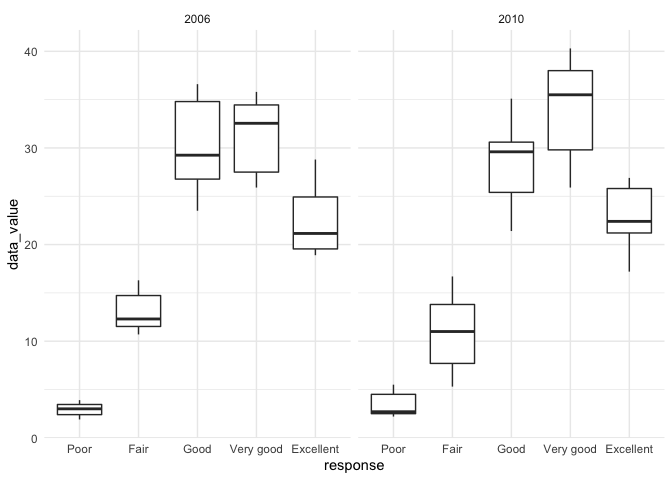
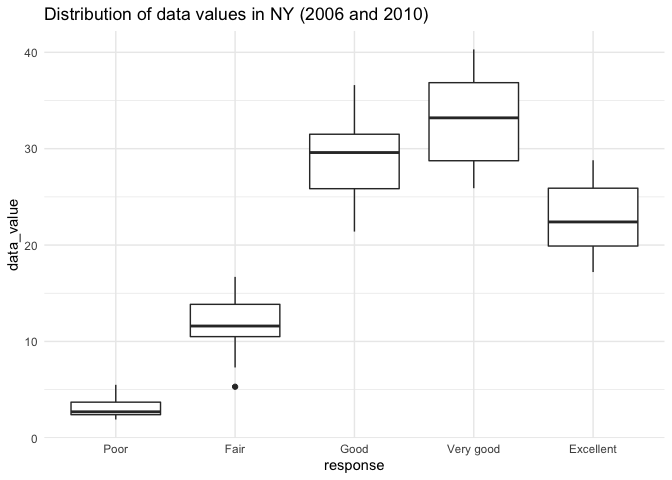
Add comments

diff --git a/p8105_hw3_az2587.md b/p8105_hw3_az2587.md
@@ -89,8 +89,9 @@ user\_id, order\_number, order\_dow, order\_hour\_of\_day,
 days\_since\_prior\_order, aisle\_id, department\_id are integers while
 the others are characters.
 
-Below are some specific questions related to the dataset：\\ How many
-aisles are there, and which aisles are the most items ordered from?
+Below are some specific questions related to the dataset：  
+How many aisles are there, and which aisles are the most items ordered
+from?
 
 ``` r
 aisle_ids = instacart %>% 
@@ -136,12 +137,14 @@ instacart %>%
 
     ## `summarise()` has grouped output by 'aisle'. You can override using the `.groups` argument.
 
-![](p8105_hw3_az2587_files/figure-gfm/unnamed-chunk-4-1.png)<!-- --> The
-x axis of the plot denotes the number of orders while the y axis denotes
-the corresponding aisle. Colors of the bars differ in department. We can
-see that fresh vegetables are ordered the most frequently and butter is
-ordered the least of times. The quantity of orders of fresh products and
-dairy eggs are more than other kinds of products.
+![](p8105_hw3_az2587_files/figure-gfm/unnamed-chunk-4-1.png)<!-- -->
+
+The x axis of the plot denotes the number of orders while the y axis
+denotes the corresponding aisle. Colors of the bars differ in
+department. We can see that fresh vegetables are ordered the most
+frequently and butter is ordered the least of times. The quantity of
+orders of fresh products and dairy eggs are more than other kinds of
+products.
 
 Make a table showing the three most popular items in each of the aisles
 “baking ingredients”, “dog food care”, and “packaged vegetables
@@ -338,6 +341,7 @@ excellent_df %>%
 ```
 
 ![](p8105_hw3_az2587_files/figure-gfm/unnamed-chunk-11-1.png)<!-- -->
+
 The plot shows the changes of average values of each state over time.
 The values drop slightly overall.
 
@@ -352,12 +356,41 @@ brfss %>%
          state == "NY")%>% 
   ggplot(aes(x = response, y = data_value)) +
   geom_boxplot() +
-  facet_grid(. ~ year)
+  labs(title = "Distribution of data values in NY (2006 and 2010)")
 ```
 
 ![](p8105_hw3_az2587_files/figure-gfm/unnamed-chunk-12-1.png)<!-- -->
 
+``` r
+  facet_grid(. ~ year)
+```
+
+    ## <ggproto object: Class FacetGrid, Facet, gg>
+    ##     compute_layout: function
+    ##     draw_back: function
+    ##     draw_front: function
+    ##     draw_labels: function
+    ##     draw_panels: function
+    ##     finish_data: function
+    ##     init_scales: function
+    ##     map_data: function
+    ##     params: list
+    ##     setup_data: function
+    ##     setup_params: function
+    ##     shrink: TRUE
+    ##     train_scales: function
+    ##     vars: function
+    ##     super:  <ggproto object: Class FacetGrid, Facet, gg>
+
+The two-panel box-plot shows the distribution of data-value in 2006 and
+2010. We can see that people who responded “Very good” tend to have
+higher data values in both years and those who responded “Poor” tend to
+have lower data values in both years. The distribution of data values
+according to responses are similar in 2006 and 2010.
+
 ## Problem 3
+
+Data preparation:
 
 ``` r
 accel = read_csv("accel_data.csv") %>% 
@@ -388,6 +421,29 @@ accel = read_csv("accel_data.csv") %>%
     ##   day = col_character()
     ## )
     ## ℹ Use `spec()` for the full column specifications.
+
+``` r
+accel
+```
+
+    ## # A tibble: 50,400 x 6
+    ##    day_id  week day    weekday_vs_weekend minute activity_count
+    ##     <dbl> <dbl> <chr>  <chr>               <dbl>          <dbl>
+    ##  1      1     1 Friday weekday                 1           88.4
+    ##  2      1     1 Friday weekday                 2           82.2
+    ##  3      1     1 Friday weekday                 3           64.4
+    ##  4      1     1 Friday weekday                 4           70.0
+    ##  5      1     1 Friday weekday                 5           75.0
+    ##  6      1     1 Friday weekday                 6           66.3
+    ##  7      1     1 Friday weekday                 7           53.8
+    ##  8      1     1 Friday weekday                 8           47.8
+    ##  9      1     1 Friday weekday                 9           55.5
+    ## 10      1     1 Friday weekday                10           43.0
+    ## # … with 50,390 more rows
+
+The resulting dataset contains **50400** observations and **6**
+variables. The variables are day\_id, week, day, weekday\_vs\_weekend,
+minute, activity\_count.
 
 Aggregate across minutes to create a total activity variable for each
 day, and create a table showing these totals:
@@ -439,13 +495,16 @@ accel %>%
 |      34 |    5 | Tuesday   | 367824.00 |
 |      35 |    5 | Wednesday | 445366.00 |
 
+The table shows that in week four and five, total activity drops
+significantly on Saturdays and Sundays.
+
 Make a single-panel plot that shows the 24-hour activity time courses
 for each day and use color to indicate day of the week:
 
 ``` r
 accel %>% 
   ggplot(aes(x = minute, y = activity_count, color = day)) + 
-  geom_line() +
+  geom_line(alpha = 0.6) +
   labs(
     title = "24h activity",
     x = "Time",
@@ -457,3 +516,9 @@ accel %>%
 ```
 
 ![](p8105_hw3_az2587_files/figure-gfm/unnamed-chunk-15-1.png)<!-- -->
+
+The plot shows that on Friday evenings (after 8pm) the activity count
+tends to be higher; activity counts in all days tend to be lower from
+mid-night to early morning; activity counts tend to be lower on
+Wednesdays except for some outliers; On Sundays, activity counts tend to
+increase at noon (around 12pm).
